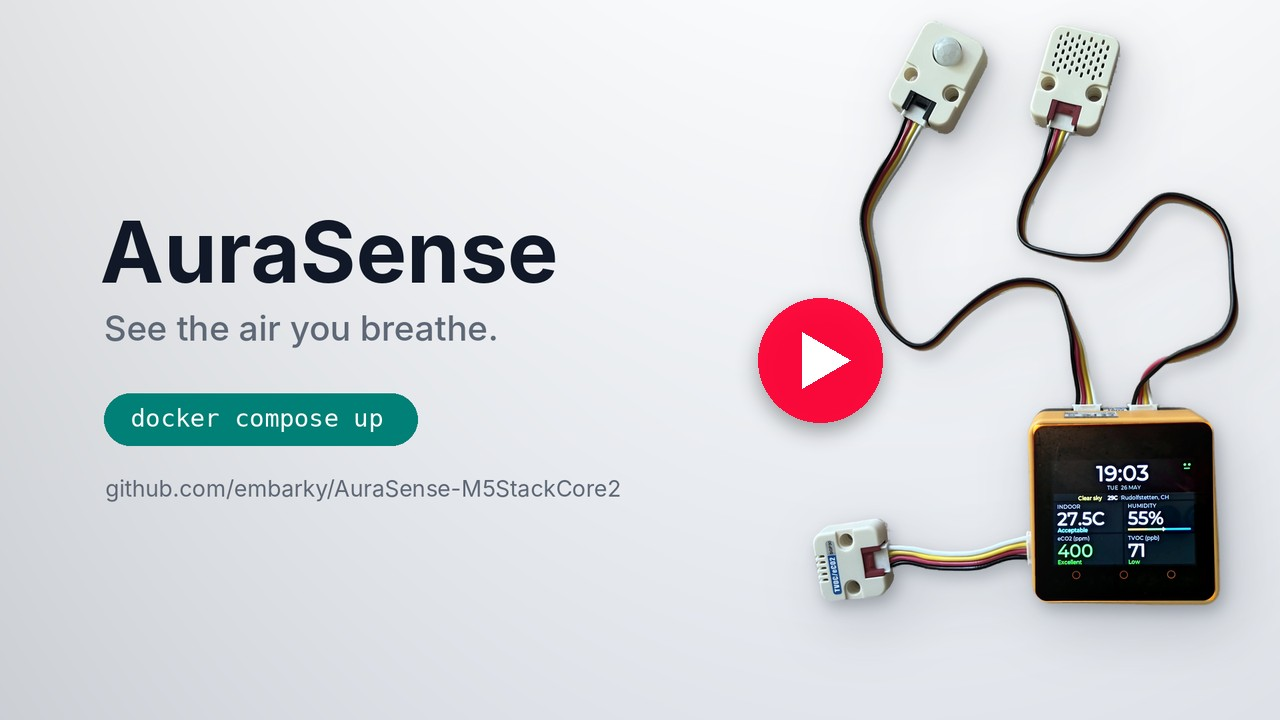
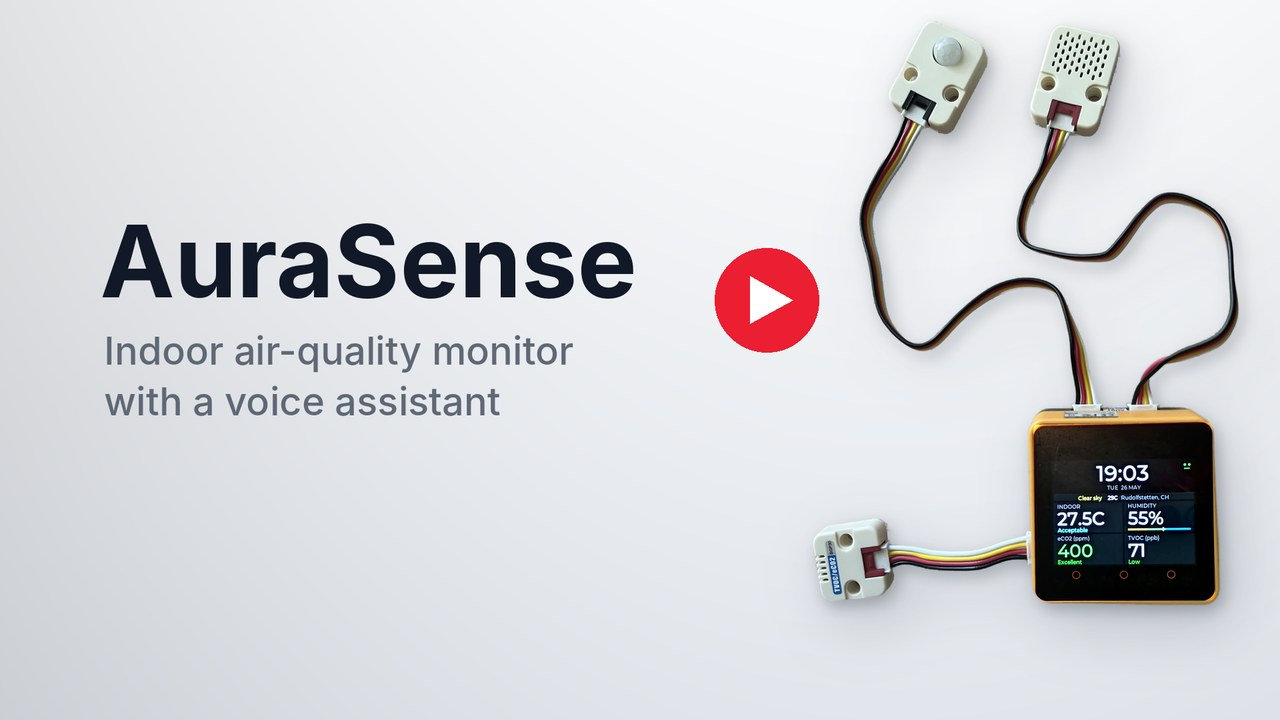
Link the re-published product video; new README thumbnail
Claude-Session: https://claude.ai/code/session_011PJihj477f4uH9JVPpPqsn

Changed region(s): [[0.0625, 0.3056, 0.5, 0.6417], [0.5312, 0.3361, 0.7188, 0.6111], [0.0625, 0.6722, 0.5, 0.7028]]

diff --git a/docs/design.md b/docs/design.md
@@ -146,7 +146,7 @@ A shared API key on every endpoint (constant-time comparison), per-client rate l
 
 * **Automated tests (89)** — backend (52), dashboard (23), simulator (9), firmware (5, run on the MicroPython interpreter with the M5Stack modules stubbed, plus compilation of every firmware file with `mpy-cross`). The v2 fixes that can be reproduced in a test (§6.4, §6.7, §6.8 and the API issues in §5.8) were each re-introduced to confirm that a test fails; the multi-worker issue (§6.5) is a deployment property and is addressed by configuration.
 * **CI** — lint, secret scan, all test suites, Docker image builds, and an end-to-end check that `docker compose up` delivers simulated data to the dashboard.
-* **Hardware** — v1 was tested on the device throughout the course (see the [product video](https://www.youtube.com/watch?v=Kg4_3pkiIR8)). v2 firmware changes are small and covered by the MicroPython tests, but have not been re-run on hardware.
+* **Hardware** — v1 was tested on the device throughout the course (see the [product video](https://www.youtube.com/watch?v=-8rTBZ_OiJc)). v2 firmware changes are small and covered by the MicroPython tests, but have not been re-run on hardware.
 
 ## 8. Operations and cost
 

diff --git a/README.md b/README.md
@@ -9,12 +9,12 @@
 **See the air you breathe.** An end-to-end IoT system that measures indoor air quality on an ESP32 device, raises light and voice alerts when the air gets bad, answers spoken questions with an LLM, and keeps the history in the cloud for a web dashboard.
 
 <p align="center">
-  <a href="https://www.youtube.com/watch?v=Kg4_3pkiIR8"><img src="assets/product-video-thumbnail.jpg" width="720" alt="Watch the 70-second AuraSense product video on YouTube"></a>
+  <a href="https://www.youtube.com/watch?v=-8rTBZ_OiJc"><img src="assets/product-video-thumbnail.jpg" width="720" alt="Watch the 70-second AuraSense product video on YouTube"></a>
   <br><sub><b>▶ Watch the 70-second product video</b> — real device, real voice alerts and assistant answers, English subtitles.</sub>
 </p>
 
 <p align="center">
-  <a href="https://www.youtube.com/watch?v=Kg4_3pkiIR8"><b>▶ Product video</b></a> ·
+  <a href="https://www.youtube.com/watch?v=-8rTBZ_OiJc"><b>▶ Product video</b></a> ·
   <a href="#quick-start">Quick start</a> ·
   <a href="docs/design.md">Design document</a> ·
   <a href="docs/device-setup.md">Device setup</a> ·
